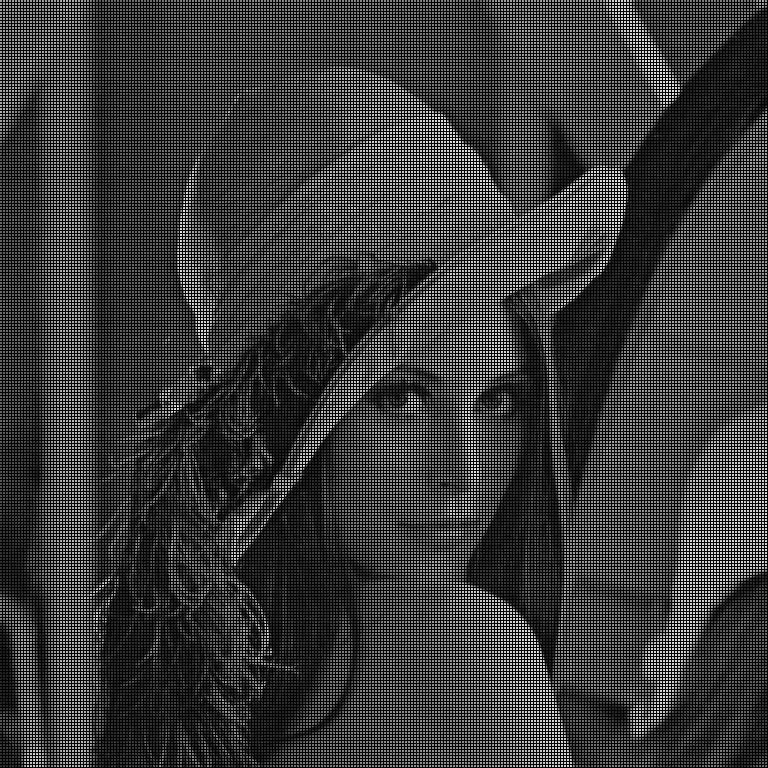
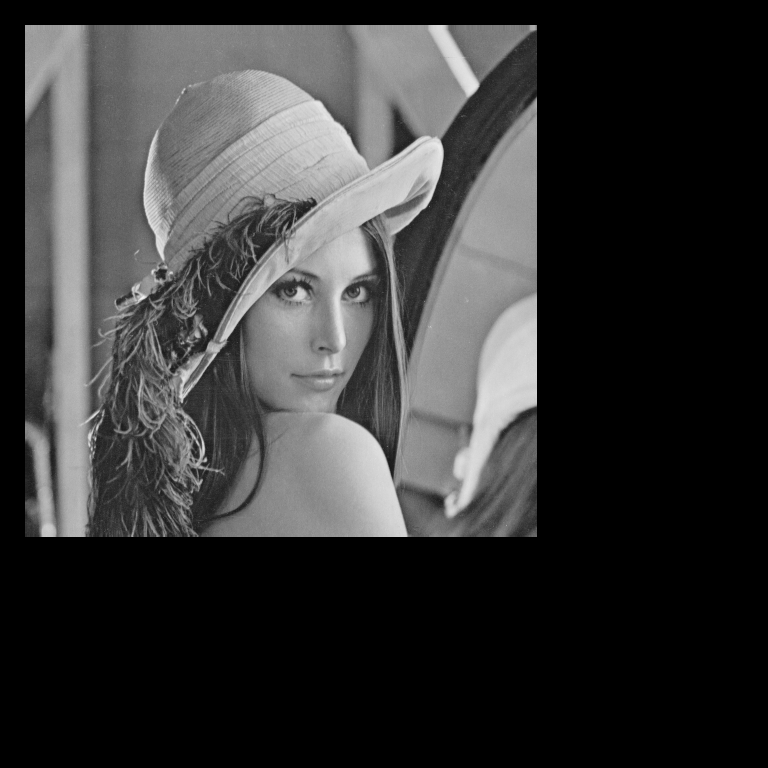
Ajustes

diff --git a/processamento de imagem/Aula3/Atividade6/Atividade_6_1.py b/processamento de imagem/Aula3/Atividade6/Atividade_6_1.py
@@ -8,65 +8,28 @@ imgLennaCinza.show()
 h, w = imgLennaCinza.size
 
 img = Image.new('L', (1000, 1000) , 'BLACK')
-img2 = Image.new('L', (int((w)*1.5), int((h)*1.5)) , 'BLACK')  
+img2 = Image.new('L', (int((w) * 1.5), int((h) * 1.5)) , 'BLACK')  
 
-
-def posicao(height, width):
-    tupla = []
-    D1 = math.sqrt((math.pow(img2.getpixel((height, width)), 2)) + (math.pow(img2.getpixel((height - 1, width + 1)), 2)))
-    D2 = math.sqrt((math.pow(img2.getpixel((height, width)), 2)) + (math.pow(img2.getpixel((height + 1, width)), 2)))
-    D3 = math.sqrt((math.pow(img2.getpixel((height, width)), 2)) + (math.pow(img2.getpixel((height, width + 1)), 2)))
-    D4 = math.sqrt((math.pow(img2.getpixel((height, width)), 2)) + (math.pow(img2.getpixel((height -1, width)), 2)))
-    D5 = math.sqrt((math.pow(img2.getpixel((height, width)), 2)) + (math.pow(img2.getpixel((height, width - 1)), 2)))
-    D6 = math.sqrt((math.pow(img2.getpixel((height, width)), 2)) + (math.pow(img2.getpixel((height-1, width - 1)), 2)))
-    D7 = math.sqrt((math.pow(img2.getpixel((height, width)), 2)) + (math.pow(img2.getpixel((height+1, width - 1)), 2)))
-    #D8 = math.sqrt((math.pow(img2.getpixel((height, width)), 2)) + (math.pow(img2.getpixel((height, width + 1)), 2)))
-    
-    
-    # X7 = img.getpixel((height - 1, width - 1)) * mascaraAlta[0][0]
-    # X8 = img.getpixel((height + 1, width - 1)) * mascaraAlta[2][0]
-    # M = int((T + X1 + X2 + X3 + X4 + X5 + X6 + X7 + X8))
-    
-    
-    maior = D1
-    
-    tupla.insert(0, D1)
-    tupla.insert(1, D2)
-    tupla.insert(2, D3)
-    
-    for k in range(len(tupla)):
-        if tupla[k] < maior:
-            maior = tupla[k] 
-    
-    return maior
-
-
-for linha in range(0, h):
-    for coluna in range(0, w):
+for linha in range(h):
+    for coluna in range(w):
         pixel = imgLennaCinza.getpixel((coluna, linha))
-        img2.putpixel((int(coluna  *1.5)   , int(linha * 1.5)), pixel)
+        img2.putpixel((int(coluna) + 25   , int(linha) + 25), pixel)
         
 img2.show()
-img2.save('img77.png')
         
-for linha in range(1, h):
-    for coluna in range(1, w):
-        #pixel = int(posicao(coluna, linha))
-        pixel =img2.getpixel((coluna, linha))
-        Y = int(coluna * math.sin(45) + linha * math.cos(45))
-        X = int((coluna * math.cos(45) - linha * math.sin(45)))
-        # pixel = int(posicao(X,Y ))
-        # if (X > 0 & X < 512) & (Y < 512):
+for linha in range(h):
+    for coluna in range(w):
+        pixel = img2.getpixel((coluna, linha))
+        Y = int(coluna * math.sin(45) + linha * math.cos(0.5))
+        X = int((coluna * math.cos(0.5) - linha * math.sin(45)))
         
-        #DY = math.sqrt((math.pow((coluna - X), 2)) + (math.pow(linha -Y, 2)))
-               
         if X < 0:
             X = 500 + X
-            img.putpixel((int(X / 2), int(Y / 2)), pixel)
+            img.putpixel((int(X / 2 + 250) , int(Y / 2 + 250)), pixel)
             
         else:
             X = 500 + X
-            img.putpixel((int(X / 2), int(Y / 2)), pixel)
+            img.putpixel((int(X / 2 + 250) , int(Y / 2 + 250)), pixel)
         
 img.show()
 img.save('img1.png')
